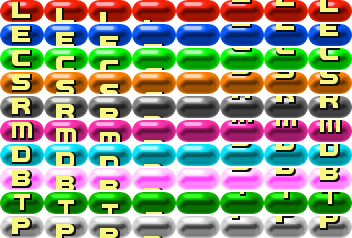
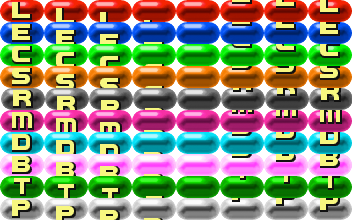
reward nueva cosa tiempo y yasta ole mi coño

Changed region(s): [[0.0, 0.0, 1.0, 0.5455], [0.0, 0.5727, 1.0, 1.0]]

diff --git a/Arkanoid 2.0/HolaSDL/Game.cpp b/Arkanoid 2.0/HolaSDL/Game.cpp
@@ -251,7 +251,7 @@ void Game::generateRewards(Vector2D posAux) {
 	srand(time(NULL) * _getpid() * rand());
 	int num = rand() % 3; 
 	if (num == 1) {
-		int num2 = rand() % 300;
+		int num2 = rand() % 400;
 		cout << num2 << endl;
 		if (num2 < 20) {
 			if(level < 2) gameObjects.push_back(new Reward(posAux, REWARD_HEIGHT, REWARD_WIDTH, Vector2D(0, 1), textures[Rewards], 'L', textures[Rewards]->getNumCols(), this));
@@ -265,6 +265,9 @@ void Game::generateRewards(Vector2D posAux) {
 		else if (num2 < 300) {
 			gameObjects.push_back(new Reward(posAux, REWARD_HEIGHT, REWARD_WIDTH, Vector2D(0, 1), textures[Rewards], 'E', textures[Rewards]->getNumCols(), this));
 		}
+		else if (num2 < 400) {
+			gameObjects.push_back(new Reward(posAux, REWARD_HEIGHT, REWARD_WIDTH, Vector2D(0, 1), textures[Rewards], 'D', textures[Rewards]->getNumCols(), this));
+		}
 	}
 
 }
@@ -272,11 +275,12 @@ void Game::generateRewards(Vector2D posAux) {
 void Game::rewardType(char tipo) {
 	switch (tipo) {
 	case 'L': { CurrentState = win; }break;
-	case 'E': { if (paddle->getWidth() == PADDLE_WIDTH) paddle->setWidth(paddle->getRect().w * 1.3); else paddle->setWidth(PADDLE_WIDTH); }break;
-	case 'R': { if (life->lives < 9) paddle->setWidth(PADDLE_WIDTH); ++life->lives; }break;
-	case 'S': { if (paddle->getWidth() == PADDLE_WIDTH) paddle->setWidth(paddle->getRect().w * 0.7); else paddle->setWidth(PADDLE_WIDTH); }break;
+	case 'E': {  ball->setSize(BALL_SIZE); if (paddle->getWidth() == PADDLE_WIDTH) paddle->setWidth(paddle->getRect().w * 1.3); else paddle->setWidth(PADDLE_WIDTH); }break;
+	case 'R': { if (life->lives < 9) paddle->setWidth(PADDLE_WIDTH); ball->setSize(BALL_SIZE); ++life->lives; }break;
+	case 'S': {  ball->setSize(BALL_SIZE); if (paddle->getWidth() == PADDLE_WIDTH) paddle->setWidth(paddle->getRect().w * 0.7); else paddle->setWidth(PADDLE_WIDTH); }break;
 	case 'C': { }break;
 	case 'B': {  }break;
+	case 'D': { if(ball->getSize() == BALL_SIZE) ball->setSize(ball->getRect().w * 1.5); else ball->setSize(BALL_SIZE); }
 	}
 }
 

diff --git a/Arkanoid 2.0/HolaSDL/Time.cpp b/Arkanoid 2.0/HolaSDL/Time.cpp
@@ -21,11 +21,12 @@ void Time::resetTime()
 
 void Time::update() 
 {
-		deltaTime = (SDL_GetTicks() / 1000) + extra;
-		convertSeconds(deltaTime / 100, secondsRow_C, secondsCol_C);
-		convertSeconds((deltaTime / 10) % 10, secondsRow_D, secondsCol_D);
-		convertSeconds(deltaTime % 10, secondsRow_U, secondsCol_U);
-		render(); // Renderiza todos los objetos del juego
+	if (deltaTime >= 999) game->timeLimit();
+	deltaTime = (SDL_GetTicks() / 1000) + extra;
+	convertSeconds(deltaTime / 100, secondsRow_C, secondsCol_C);
+	convertSeconds((deltaTime / 10) % 10, secondsRow_D, secondsCol_D);
+	convertSeconds(deltaTime % 10, secondsRow_U, secondsCol_U);
+	render(); 
 }
 
 void Time::convertSeconds(int sec, int& row, int& col) {
@@ -51,17 +52,17 @@ void Time::render() const
 	destRectS1.x = destRect.x + w;
 	destRectS2.x = destRectS1.x + w;
 
-	//if (deltaTime == 999) //game->GameOver();
 	texture->renderFrame(destRect, secondsRow_C, secondsCol_C);
 	texture->renderFrame(destRectS1, secondsRow_D, secondsCol_D);
 	texture->renderFrame(destRectS2, secondsRow_U, secondsCol_U);
-
 }
+
 void Time::saveToFile(ofstream& saveFile)
 {
 	saveFile << "Time " << deltaTime << endl;
 
 }
+
 void Time::loadFromFile(ifstream& loadFile)
 {
 	int time;

diff --git a/Arkanoid 2.0/HolaSDL/Ball.cpp b/Arkanoid 2.0/HolaSDL/Ball.cpp
@@ -25,11 +25,14 @@ void Ball::loadFromFile(ifstream& loadFile)
 	loadFile >> info1 >> info2;
 	dir = Vector2D(info1, info2);
 	if (loadFile.fail()) throw (FileFormatError("Error in reading ball direction from save file"));
+	loadFile >> info1 >> info2;
+	w = info1; h = info2;
+	if (loadFile.fail() || info1 <= 0 || info2 <= 0) throw (FileFormatError("Error in reading ball size from save file"));
 }
 
 //Ball, posx, posy, dirx, diry
 void Ball::saveToFile(ofstream& saveFile)
 {
-	saveFile << "Ball " << pos.getX() << " " << pos.getY() << " " << dir.getX() << " " << dir.getY() << endl;
+	saveFile << "Ball " << pos.getX() << " " << pos.getY() << " " << dir.getX() << " " << dir.getY() << " " << w << " " << h << endl;
 	
 }

diff --git a/Arkanoid 2.0/HolaSDL/Ball.h b/Arkanoid 2.0/HolaSDL/Ball.h
@@ -18,5 +18,7 @@ public:
 	virtual void saveToFile(ofstream& saveFile);
 	Vector2D getDir() { return dir; }
 	Vector2D getPos() { return pos; }
-	void restartBall() { pos = (Vector2D(WIN_WIDTH / 2, WIN_HEIGHT / 2)); dir = (Vector2D(1, -1)); }
+	int getSize() { return w; }
+	void setSize(int size) { w = size; h = size; };
+	void restartBall() { pos = (Vector2D(WIN_WIDTH / 2, WIN_HEIGHT / 2)); dir = (Vector2D(1, -1)); h = BALL_SIZE; w = BALL_SIZE; }
 };

diff --git a/Arkanoid 2.0/HolaSDL/Reward.cpp b/Arkanoid 2.0/HolaSDL/Reward.cpp
@@ -10,6 +10,7 @@ void Reward::setFilCol()
 	case 'S': { row = 3; col = 0; }break;
 	case 'C': { row = 2; col = 0; }break;
 	case 'B': { row = 7; col = 0; }break;
+	case 'D': { row = 6; col = 0; }break;
 	}
 }
 

diff --git a/Arkanoid 2.0/HolaSDL/Game.h b/Arkanoid 2.0/HolaSDL/Game.h
@@ -91,6 +91,7 @@ public:
 	void newGame();
 	int getWallSize() { return WALL_WIDTH; }
 	void rewardType(char tipo);
+	void timeLimit() { CurrentState = lose; life->lives = 0; }
 
 protected:
 	void winLevel();
